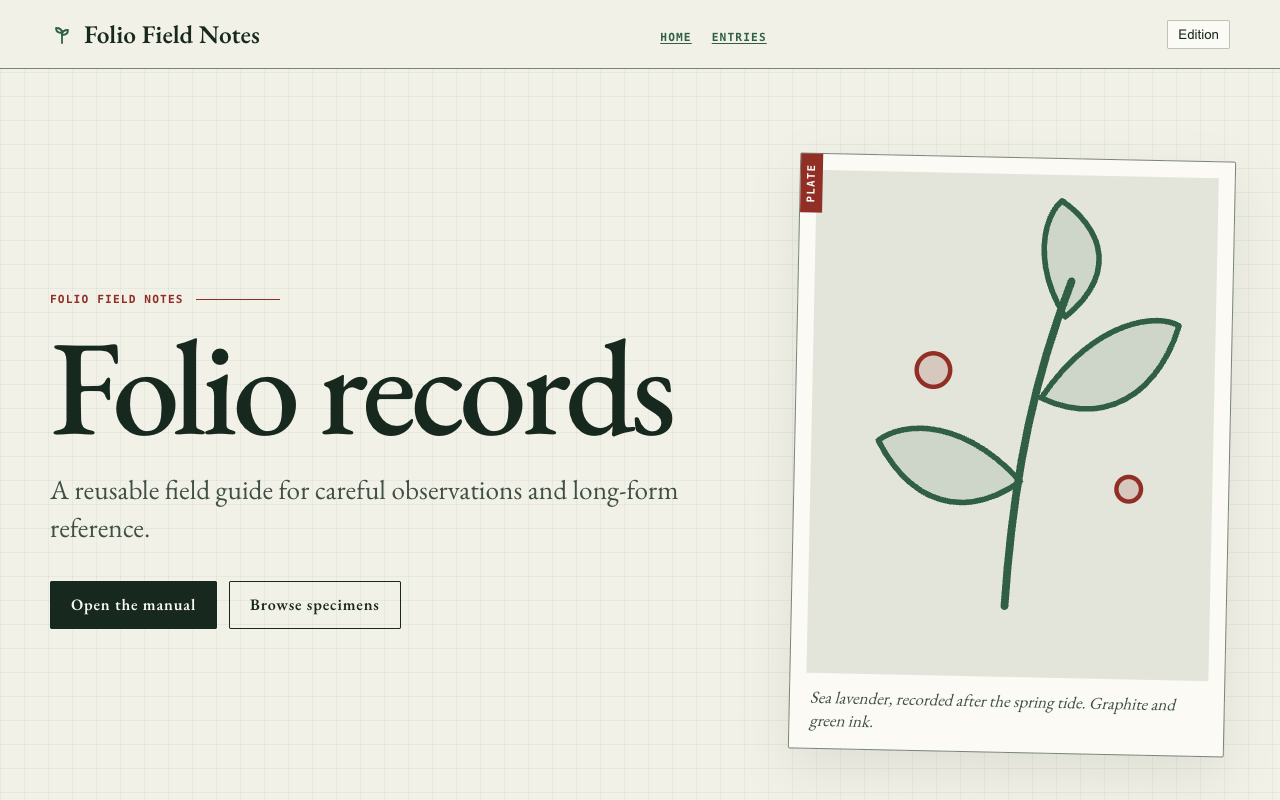
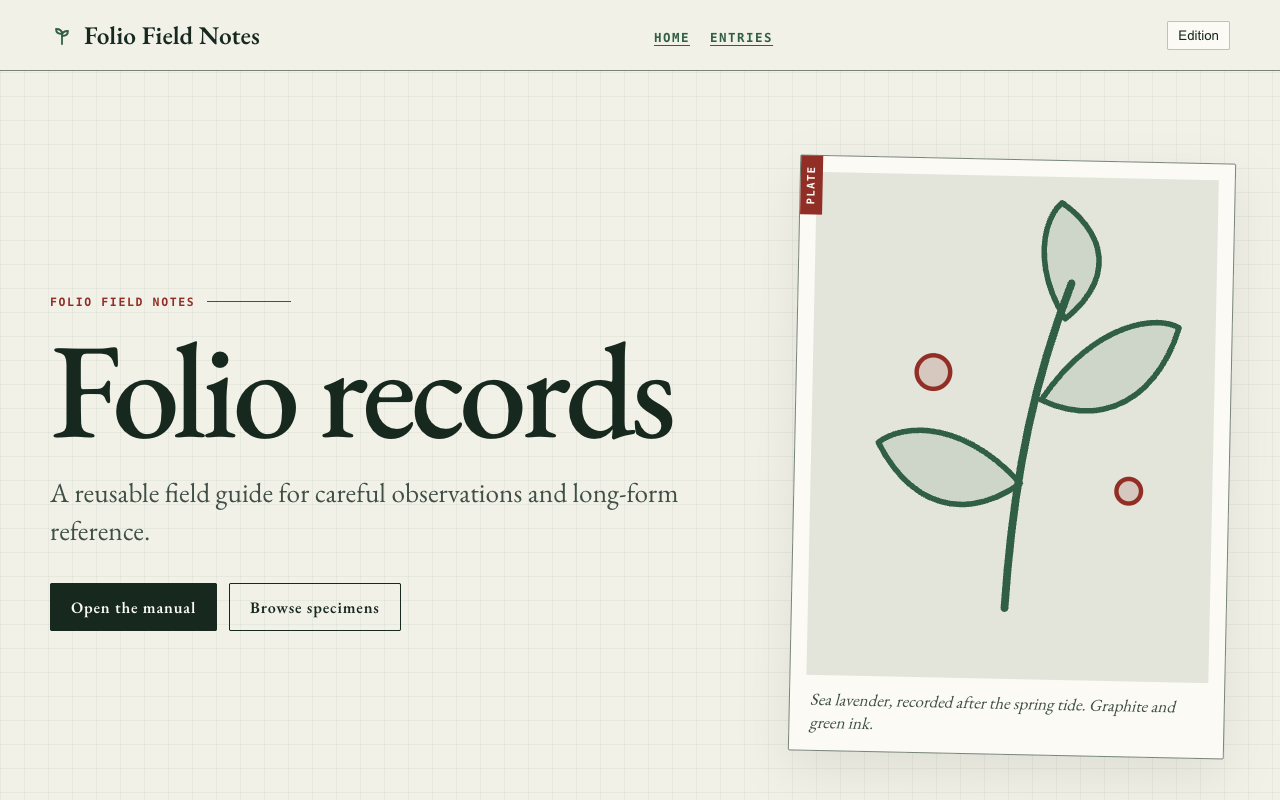
Restore the sidebar label type on active sections; align Folio metrics
The :not(.is-active) guard added with the contrast fix stripped the
whole group-label treatment from an active top-level entry, not just
its colour, so it rendered in serif sentence case beside mono uppercase
siblings. Order the rules instead: label type applies to every
top-level entry, the active rule follows and swaps only colours.

Metric diff against the mockup closed four gaps: masthead 68 -> 70px,
nav labels .7rem/.1em -> .78rem/.12em, rubric -> .72rem/.14em, and
section headings are untracked in the design.

diff --git a/themes/folio/sass/main.scss b/themes/folio/sass/main.scss
@@ -117,7 +117,7 @@ summary:focus-visible {
   align-items: center;
   justify-content: space-between;
   gap: 24px;
-  min-height: 68px;
+  min-height: 70px;
 }
 .site-title {
   display: flex;
@@ -135,10 +135,11 @@ summary:focus-visible {
 .sidebar-title,
 .toc-title,
 .page-nav-label {
-  font: 700 .7rem var(--folio-mono);
-  letter-spacing: .1em;
+  font: 700 .72rem var(--folio-mono);
+  letter-spacing: .14em;
   text-transform: uppercase;
 }
+.nav-list a { font-size: .78rem; letter-spacing: .12em; }
 .rubric, .toc-title, .page-nav-label { color: var(--folio-rubric); }
 /* The tree's own top-level entries carry the rubric label role, so the nav heading above
    them steps back to muted rather than competing with them. */
@@ -254,7 +255,6 @@ img.engraving { object-fit: cover; }
   max-width: 780px;
   margin: 0;
   font: 500 clamp(2.35rem, 5vw, 4.7rem)/1.02 var(--folio-serif);
-  letter-spacing: -.035em;
 }
 /* Each card owns all four edges: a short last row leaves no dangling rule. */
 /* Apparatus showcase: a mounted specimen beside its margin note. */
@@ -376,23 +376,26 @@ img.engraving { object-fit: cover; }
   line-height: 1.3;
 }
 .sidebar-link:hover { color: var(--folio-rubric); }
-.sidebar-tree .sidebar-link.is-active,
-.sidebar-tree .sidebar-link.is-active:hover {
-  color: var(--folio-surface);
-  background: var(--folio-green);
-}
 /* Top-level entries head a section, so they read as rubric labels rather than peers of
    the pages beneath them. They stay links when the section has its own page. */
-.sidebar-tree > .sidebar-item > .sidebar-link:not(.is-active),
+.sidebar-tree > .sidebar-item > .sidebar-link,
 .sidebar-tree > .sidebar-item > .sidebar-label {
   display: block;
-  padding: 5px 7px 5px 0;
+  padding: 5px 7px;
   color: var(--folio-rubric);
   font: 700 .67rem var(--folio-mono);
   letter-spacing: .1em;
   text-transform: uppercase;
 }
 .sidebar-tree > .sidebar-item > .sidebar-link:hover { text-decoration: underline; }
+/* Placed after the label rule so an active section keeps the label's type and only
+   swaps its colours; equal specificity means source order decides. */
+.sidebar-tree .sidebar-link.is-active,
+.sidebar-tree .sidebar-link.is-active:hover {
+  color: var(--folio-surface);
+  background: var(--folio-green);
+  text-decoration: none;
+}
 .sidebar-tree > .sidebar-item + .sidebar-item { margin-top: 18px; }
 .sidebar-subtree .sidebar-link { padding-left: 14px; }
 .sidebar-subtree .sidebar-subtree .sidebar-link { padding-left: 26px; }
